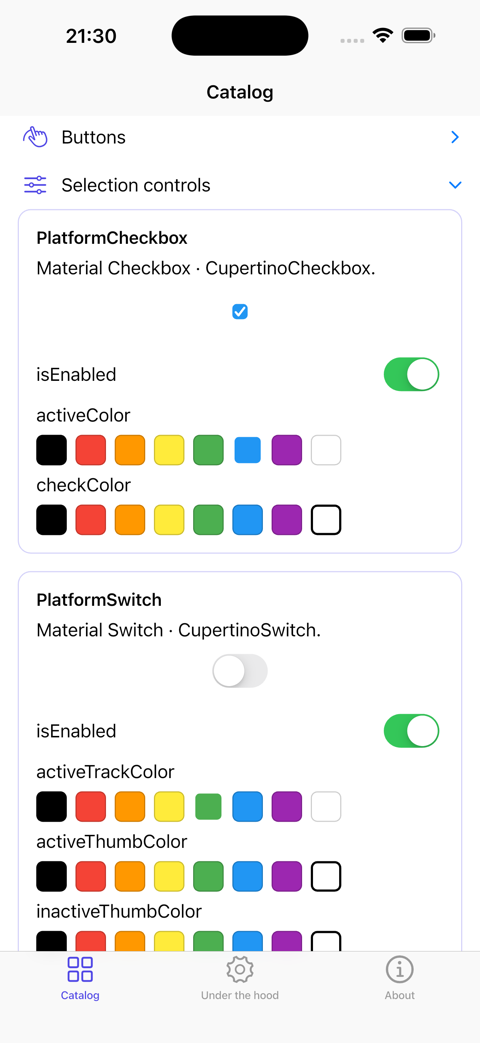
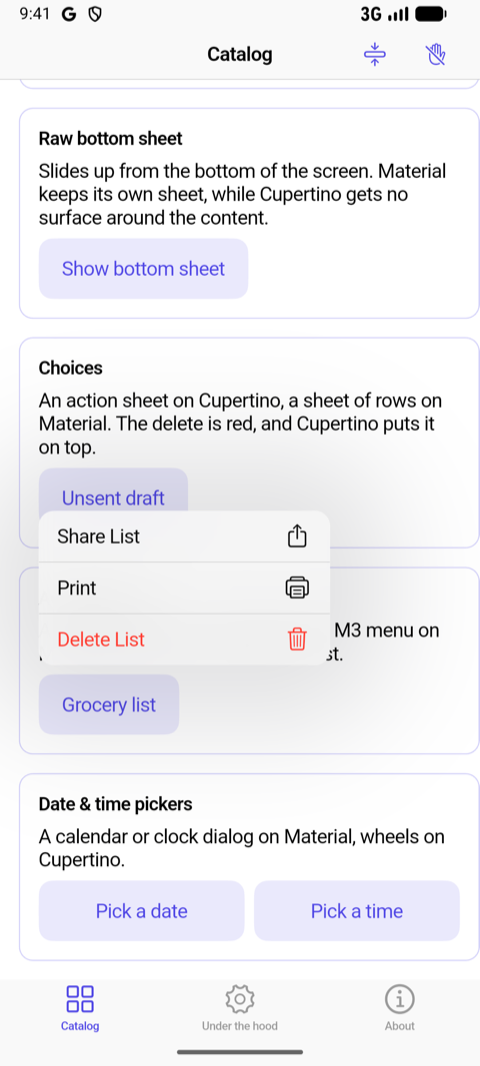
docs(readme): new screenshots and recording

diff --git a/README.md b/README.md
@@ -156,11 +156,11 @@ react right there on the device. There's also an **About** tab that swaps the re
 theme on the fly, which makes it easy to hold Material and Cupertino up next to each other without
 ever rebuilding.
 
-|                                                                                    Material (Android)                                                                                     |                                                                                         Cupertino (iOS)                                                                                          |
-|:-----------------------------------------------------------------------------------------------------------------------------------------------------------------------------------------:|:------------------------------------------------------------------------------------------------------------------------------------------------------------------------------------------------:|
-| <img src="https://raw.githubusercontent.com/LahaLuhem/platform_adaptive_widgets/master/doc/screenshots/material.png" width="240" alt="Catalog rendered with Material widgets on Android"> | <img src="https://raw.githubusercontent.com/LahaLuhem/platform_adaptive_widgets/master/doc/screenshots/cupertino.png" width="240" alt="The same catalog rendered with Cupertino widgets on iOS"> |
+|                                                                                         Material (Android)                                                                                         |                                                                                           Cupertino                                                                                            |
+|:--------------------------------------------------------------------------------------------------------------------------------------------------------------------------------------------------:|:----------------------------------------------------------------------------------------------------------------------------------------------------------------------------------------------:|
+| <img src="https://raw.githubusercontent.com/LahaLuhem/platform_adaptive_widgets/master/doc/screenshots/material.png" width="240" alt="The actions menu as an M3 menu, Delete in the error colour"> | <img src="https://raw.githubusercontent.com/LahaLuhem/platform_adaptive_widgets/master/doc/screenshots/cupertino.png" width="240" alt="The same menu as a Cupertino pull-down, Delete in red"> |
 
-<img src="https://raw.githubusercontent.com/LahaLuhem/platform_adaptive_widgets/master/doc/screenshots/property_editor.webp" width="240" alt="The runtime property editor updating a widget's properties live">
+<img src="https://raw.githubusercontent.com/LahaLuhem/platform_adaptive_widgets/master/doc/screenshots/property_editor.webp" width="480" alt="The live property editor on the same button, Material and Cupertino side by side">
 
 ```sh
 cd example
@@ -181,35 +181,35 @@ column shows what you can pass to tune each side. See
 
 ### Dialogs
 
-| Widget / Function                                       | Material                                              | Cupertino                                                                                                          | Data Classes                                              |
-|---------------------------------------------------------|-------------------------------------------------------|--------------------------------------------------------------------------------------------------------------------|-----------------------------------------------------------|
-| `showPlatformDatePicker()`                              | `showDatePicker`                                      | `CupertinoDatePicker` + `showCupertinoModalPopup`                                                                  | `MaterialDatePickerData`, `CupertinoDatePickerData`       |
-| `showPlatformTimePicker()`                              | `showTimePicker`                                      | `CupertinoDatePicker` (time mode) + `showCupertinoModalPopup`                                                      | `MaterialTimePickerData`, `CupertinoDatePickerData`       |
-| `PlatformMenuPicker<T>`                                 | `DropdownMenu` + `DropdownMenuEntry`                  | `CupertinoMenuAnchor` (≤5 items), `CupertinoPicker` in a popup (≤250) or a `CupertinoPageRoute` list (>250)        | `MaterialMenuPickerData`, `CupertinoMenuPickerData`       |
-| `PlatformActionsMenu` + `PlatformMenuAction`            | `MenuAnchor`, icons first, delete and discard in the error colour and confirmed in a dialog | `CupertinoMenuAnchor`, icons last, delete and discard in red and confirmed in an action sheet                      | N/A                                                       |
-| `showPlatformSheet<T>()` + `PlatformUnsavedChanges`     | `showModalBottomSheet`, sized to its content          | `showCupertinoSheet` + `CupertinoPageScaffold`                                                                     | N/A                                                       |
-| `showPlatformFullscreenDialog<T>()`                     | `showDialog` + `Dialog.fullscreen` + `Scaffold`       | `CupertinoPageRoute` (`fullscreenDialog: true`) + `CupertinoPageScaffold`                                          | `MaterialFullscreenDialogData`                            |
-| `showPlatformConfirm()` + `PlatformActionKind`          | `AlertDialog`, Cancel + a confirming action styled by `actionKind` | `CupertinoAlertDialog`, Cancel + a confirming action styled by `actionKind`                                        | `MaterialAlertDialogData`, `CupertinoAlertDialogData`     |
-| `showPlatformRawDialog<T>()`                            | `showDialog` (no surface wrap)                        | `showCupertinoDialog` (no surface wrap)                                                                            | N/A (caller owns the surface)                             |
-| `showPlatformRawModalBottomSheet<T>()`                  | `showModalBottomSheet` (native Material)              | `showCupertinoModalPopup` (no surface wrap)                                                                        | `MaterialModalBottomSheetData`, `CupertinoModalPopupData` |
-| `showPlatformChoices<T>()` + `PlatformChoice`           | `showModalBottomSheet`, a `ListTile` per choice, delete and discard in the error colour | `CupertinoActionSheet`, delete and discard on top in red, Cancel added                                             | `MaterialModalBottomSheetData`, `CupertinoModalPopupData` |
-| `showPlatformToast()` + `PlatformToastAction`           | `SnackBar` + `SnackBarAction` via `ScaffoldMessenger` | A banner the package draws, since iOS has no toast. Prefer showing the change itself there                         | `MaterialToastData`, `CupertinoToastData`                 |
-| `showPlatformAcknowledge()`                             | `AlertDialog` + single OK action                      | `CupertinoAlertDialog` + single OK action                                                                          | `MaterialAlertDialogData`, `CupertinoAlertDialogData`     |
+| Widget / Function                                   | Material                                                                                    | Cupertino                                                                                                   | Data Classes                                              |
+|-----------------------------------------------------|---------------------------------------------------------------------------------------------|-------------------------------------------------------------------------------------------------------------|-----------------------------------------------------------|
+| `showPlatformDatePicker()`                          | `showDatePicker`                                                                            | `CupertinoDatePicker` + `showCupertinoModalPopup`                                                           | `MaterialDatePickerData`, `CupertinoDatePickerData`       |
+| `showPlatformTimePicker()`                          | `showTimePicker`                                                                            | `CupertinoDatePicker` (time mode) + `showCupertinoModalPopup`                                               | `MaterialTimePickerData`, `CupertinoDatePickerData`       |
+| `PlatformMenuPicker<T>`                             | `DropdownMenu` + `DropdownMenuEntry`                                                        | `CupertinoMenuAnchor` (≤5 items), `CupertinoPicker` in a popup (≤250) or a `CupertinoPageRoute` list (>250) | `MaterialMenuPickerData`, `CupertinoMenuPickerData`       |
+| `PlatformActionsMenu` + `PlatformMenuAction`        | `MenuAnchor`, icons first, delete and discard in the error colour and confirmed in a dialog | `CupertinoMenuAnchor`, icons last, delete and discard in red and confirmed in an action sheet               | N/A                                                       |
+| `showPlatformSheet<T>()` + `PlatformUnsavedChanges` | `showModalBottomSheet`, sized to its content                                                | `showCupertinoSheet` + `CupertinoPageScaffold`                                                              | N/A                                                       |
+| `showPlatformFullscreenDialog<T>()`                 | `showDialog` + `Dialog.fullscreen` + `Scaffold`                                             | `CupertinoPageRoute` (`fullscreenDialog: true`) + `CupertinoPageScaffold`                                   | `MaterialFullscreenDialogData`                            |
+| `showPlatformConfirm()` + `PlatformActionKind`      | `AlertDialog`, Cancel + a confirming action styled by `actionKind`                          | `CupertinoAlertDialog`, Cancel + a confirming action styled by `actionKind`                                 | `MaterialAlertDialogData`, `CupertinoAlertDialogData`     |
+| `showPlatformRawDialog<T>()`                        | `showDialog` (no surface wrap)                                                              | `showCupertinoDialog` (no surface wrap)                                                                     | N/A (caller owns the surface)                             |
+| `showPlatformRawModalBottomSheet<T>()`              | `showModalBottomSheet` (native Material)                                                    | `showCupertinoModalPopup` (no surface wrap)                                                                 | `MaterialModalBottomSheetData`, `CupertinoModalPopupData` |
+| `showPlatformChoices<T>()` + `PlatformChoice`       | `showModalBottomSheet`, a `ListTile` per choice, delete and discard in the error colour     | `CupertinoActionSheet`, delete and discard on top in red, Cancel added                                      | `MaterialModalBottomSheetData`, `CupertinoModalPopupData` |
+| `showPlatformToast()` + `PlatformToastAction`       | `SnackBar` + `SnackBarAction` via `ScaffoldMessenger`                                       | A banner the package draws, since iOS has no toast. Prefer showing the change itself there                  | `MaterialToastData`, `CupertinoToastData`                 |
+| `showPlatformAcknowledge()`                         | `AlertDialog` + single OK action                                                            | `CupertinoAlertDialog` + single OK action                                                                   | `MaterialAlertDialogData`, `CupertinoAlertDialogData`     |
 
 ### Interaction
 
-| Widget                                      | Material                                                                                                                                                                                                         | Cupertino                                                                                                                                                                                                                    | Data Classes                                                 |
-|---------------------------------------------|------------------------------------------------------------------------------------------------------------------------------------------------------------------------------------------------------------------|------------------------------------------------------------------------------------------------------------------------------------------------------------------------------------------------------------------------------|--------------------------------------------------------------|
-| `PlatformButton` + `PlatformButtonEmphasis` | `FilledButton`, `FilledButton.tonal`, `OutlinedButton` or `TextButton` by `emphasis`, the error colours for a delete or discard, through their `.icon` factories for `PlatformButton.icon`, and `IconButton`'s matching style for `PlatformButton.iconOnly` | `CupertinoButton.filled`, `.tinted`, `.tinted` in `systemGrey` or plain by `emphasis`, red for a delete or discard. `PlatformButton.icon` puts the icon and label in a `Row`, `PlatformButton.iconOnly` holds the icon alone | `MaterialButtonData`, `CupertinoButtonData`                  |
-| `PlatformExpansionTile`                     | `ExpansionTile`                                                                                                                                                                                                  | `CupertinoExpansionTile`                                                                                                                                                                                                     | `MaterialExpansionTileData`, `CupertinoExpansionTileData`    |
-| `PlatformMultiSelectList<T>`                | `CheckboxListTile`s, the box leading                                                                                                                                                                             | `CupertinoListTile`s with a trailing checkmark in a `CupertinoListSection.insetGrouped`                                                                                                                                      | N/A (flat params, no data classes)                           |
-| `PlatformScrollbar`                         | `Scrollbar`                                                                                                                                                                                                      | `CupertinoScrollbar`                                                                                                                                                                                                         | `MaterialScrollbarData`, `CupertinoScrollbarData`            |
-| `PlatformSearchBar`                         | `SearchBar`                                                                                                                                                                                                      | `CupertinoSearchTextField`                                                                                                                                                                                                   | `MaterialSearchBarData`, `CupertinoSearchBarData`            |
-| `PlatformSegmentButton<T>`                  | `SegmentedButton` + `ButtonSegment`                                                                                                                                                                              | `CupertinoSlidingSegmentedControl`                                                                                                                                                                                           | `MaterialSegmentButtonData`, `CupertinoSegmentButtonData`    |
-| `PlatformSingleSelectList<T>`               | `RadioListTile`s in a `RadioGroup`                                                                                                                                                                               | `CupertinoListTile`s with a trailing checkmark in a `CupertinoListSection.insetGrouped`                                                                                                                                      | N/A (flat params, no data classes)                           |
-| `PlatformSlider`                            | `Slider`                                                                                                                                                                                                         | `CupertinoSlider`                                                                                                                                                                                                            | `MaterialSliderData`, `CupertinoSliderData`                  |
-| `PlatformSwitch`                            | `Switch`                                                                                                                                                                                                         | `CupertinoSwitch`                                                                                                                                                                                                            | `MaterialSwitchData`, `CupertinoSwitchData`                  |
-| `PlatformTextField`                         | `TextField`                                                                                                                                                                                                      | `CupertinoTextField`                                                                                                                                                                                                         | `MaterialTextFieldData`, `CupertinoTextFieldData`            |
+| Widget                                      | Material                                                                                                                                                                                                                                                    | Cupertino                                                                                                                                                                                                                    | Data Classes                                              |
+|---------------------------------------------|-------------------------------------------------------------------------------------------------------------------------------------------------------------------------------------------------------------------------------------------------------------|------------------------------------------------------------------------------------------------------------------------------------------------------------------------------------------------------------------------------|-----------------------------------------------------------|
+| `PlatformButton` + `PlatformButtonEmphasis` | `FilledButton`, `FilledButton.tonal`, `OutlinedButton` or `TextButton` by `emphasis`, the error colours for a delete or discard, through their `.icon` factories for `PlatformButton.icon`, and `IconButton`'s matching style for `PlatformButton.iconOnly` | `CupertinoButton.filled`, `.tinted`, `.tinted` in `systemGrey` or plain by `emphasis`, red for a delete or discard. `PlatformButton.icon` puts the icon and label in a `Row`, `PlatformButton.iconOnly` holds the icon alone | `MaterialButtonData`, `CupertinoButtonData`               |
+| `PlatformExpansionTile`                     | `ExpansionTile`                                                                                                                                                                                                                                             | `CupertinoExpansionTile`                                                                                                                                                                                                     | `MaterialExpansionTileData`, `CupertinoExpansionTileData` |
+| `PlatformMultiSelectList<T>`                | `CheckboxListTile`s, the box leading                                                                                                                                                                                                                        | `CupertinoListTile`s with a trailing checkmark in a `CupertinoListSection.insetGrouped`                                                                                                                                      | N/A (flat params, no data classes)                        |
+| `PlatformScrollbar`                         | `Scrollbar`                                                                                                                                                                                                                                                 | `CupertinoScrollbar`                                                                                                                                                                                                         | `MaterialScrollbarData`, `CupertinoScrollbarData`         |
+| `PlatformSearchBar`                         | `SearchBar`                                                                                                                                                                                                                                                 | `CupertinoSearchTextField`                                                                                                                                                                                                   | `MaterialSearchBarData`, `CupertinoSearchBarData`         |
+| `PlatformSegmentButton<T>`                  | `SegmentedButton` + `ButtonSegment`                                                                                                                                                                                                                         | `CupertinoSlidingSegmentedControl`                                                                                                                                                                                           | `MaterialSegmentButtonData`, `CupertinoSegmentButtonData` |
+| `PlatformSingleSelectList<T>`               | `RadioListTile`s in a `RadioGroup`                                                                                                                                                                                                                          | `CupertinoListTile`s with a trailing checkmark in a `CupertinoListSection.insetGrouped`                                                                                                                                      | N/A (flat params, no data classes)                        |
+| `PlatformSlider`                            | `Slider`                                                                                                                                                                                                                                                    | `CupertinoSlider`                                                                                                                                                                                                            | `MaterialSliderData`, `CupertinoSliderData`               |
+| `PlatformSwitch`                            | `Switch`                                                                                                                                                                                                                                                    | `CupertinoSwitch`                                                                                                                                                                                                            | `MaterialSwitchData`, `CupertinoSwitchData`               |
+| `PlatformTextField`                         | `TextField`                                                                                                                                                                                                                                                 | `CupertinoTextField`                                                                                                                                                                                                         | `MaterialTextFieldData`, `CupertinoTextFieldData`         |
 
 ### Layout
 

diff --git a/doc/costs.md b/doc/costs.md
@@ -26,20 +26,25 @@ dart tool/diff_size_reports.dart <before.json> <after.json> [filter]
 ```
 
 Each platform's base, what the harness keeps of the other look, is what the
-[size check](../.github/workflows/size-regression.yml) prints on every run.
+[size check](../.github/workflows/size-regression.yml) prints on every run. Android's is all
+material_ui's own Cupertino, none of it this package's: mostly the adaptive text selection toolbar
+behind `TextField` and `SearchBar`, the `CupertinoTheme` that `Theme` wraps around its child,
+`Checkbox` and `Radio`'s `.adaptive` arms, and the page transitions `ThemeData` defaults to on iOS
+and macOS. `Theme` adds its `CupertinoTheme` on every platform, and the rest pick their arm from
+`Theme.of(context).platform` at runtime, so none of it folds.
 
 ## What each widget keeps of the other look
 
-Bytes of the look a platform doesn't draw, Cupertino on Android and Material on iOS, that adding the
-widget to the harness brings in.
+Bytes of the look a platform doesn't draw that adding the widget to the harness brings in, on top of
+the base.
 
-| Widget                     | Android | iOS | What stays                                                                                                                                         |
-|----------------------------|---------|-----|----------------------------------------------------------------------------------------------------------------------------------------------------|
-| `PlatformSlider`           | 10.8 KB | 0 B | Android: cupertino_ui's slider, which material_ui's `Slider` keeps for its `.adaptive` arm                                                         |
-| `PlatformTextField`        | 137 B   | 0 B | Android: 72 B of cupertino_ui's text selection toolbar shape, which material_ui's adaptive toolbar keeps. The rest is code shifting in other files |
-| `PlatformSearchBar`        | 185 B   | 0 B | Android: nothing of its own, only code shifting in the radio and checkbox files                                                                    |
-| `PlatformSingleSelectList` | 8.9 KB  | 0 B | cupertino_ui's radio, which material_ui's `Radio` keeps whole. The size check leaves it out                                                        |
-| `PlatformMultiSelectList`  | 10.2 KB | 0 B | cupertino_ui's checkbox, which material_ui's `Checkbox` keeps whole. The size check leaves it out                                                  |
+| Widget                     | Cupertino on Android | Material on iOS | What stays                                                                                                                                         |
+|----------------------------|----------------------|-----------------|----------------------------------------------------------------------------------------------------------------------------------------------------|
+| `PlatformSlider`           | 10.8 KB              | 0 B             | Android: cupertino_ui's slider, which material_ui's `Slider` keeps for its `.adaptive` arm                                                         |
+| `PlatformTextField`        | 137 B                | 0 B             | Android: 72 B of cupertino_ui's text selection toolbar shape, which material_ui's adaptive toolbar keeps. The rest is code shifting in other files |
+| `PlatformSearchBar`        | 185 B                | 0 B             | Android: nothing of its own, only code shifting in the radio and checkbox files                                                                    |
+| `PlatformSingleSelectList` | 8.9 KB               | 0 B             | cupertino_ui's radio, which material_ui's `Radio` keeps whole. The size check leaves it out                                                        |
+| `PlatformMultiSelectList`  | 10.2 KB              | 0 B             | cupertino_ui's checkbox, which material_ui's `Checkbox` keeps whole. The size check leaves it out                                                  |
 
 The iOS base keeps 7.6 KB of Material: material_ui's bundled shaders and icon font, and the
 `TimeOfDay` the time picker takes.
